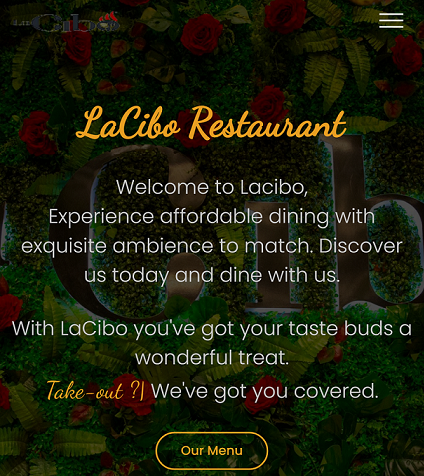
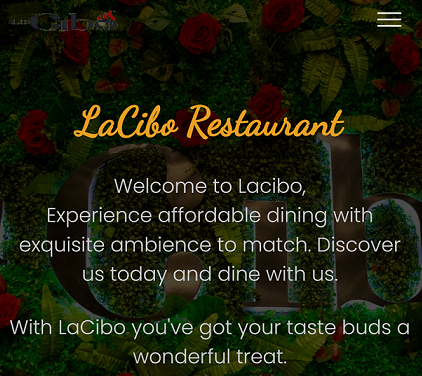
updated my works

diff --git a/index.html b/index.html
@@ -90,10 +90,24 @@
                         <div class="text">Alright Gadgets: A retail vendor for eloctronic gadgets</div>
                         <div class="desc"> 
                             <div class="descolumn">
-                                <a href="https://alrightgadgets.netlify.app">LIVE</a>
+                                <a href="https://imperialgadgets.netlify.app">LIVE</a>
                             </div>
                             <div class="descolumn">
                                 <a href="https://github.com/mhoyor/Alright-Gadget" target="_blank">GIT</a>
+                                </div>
+                        </div>
+                    </div>
+                </div>
+                <div class="card">
+                    <div class="box">
+                        <img src="./images/lacibo2.png" alt="">
+                        <div class="text">LACIBO RESTAURANT: Landing page for a restaurant.</div>
+                        <div class="desc"> 
+                            <div class="descolumn">
+                                <a href="https://lacibong.netlify.app">LIVE</a>
+                            </div>
+                            <div class="descolumn">
+                                <a href="https://github.com/mhoyor/Lacibo-Proprosal">GIT</a>
                                 </div>
                         </div>
                     </div>
@@ -112,20 +126,7 @@
                         </div>
                     </div>
                 </div>
-                <!-- <div class="card">
-                    <div class="box">
-                        <img src="./countdown.png" alt="">
-                        <div class="text">Someone name</div>
-                        <div class="desc"> 
-                            <div class="descolumn">
-                                <a href="https://pmbcountdown.netlify.app">LIVE</a>
-                            </div>
-                            <div class="descolumn">
-                                <a href="https://pmbcountdown.netlify.app">GIT</a>
-                                </div>
-                        </div>
-                    </div>
-                </div> -->
+                
                 <!-- <div class="card">
                     <div class="box">
                         <img src="./myweb1.png" alt="">
